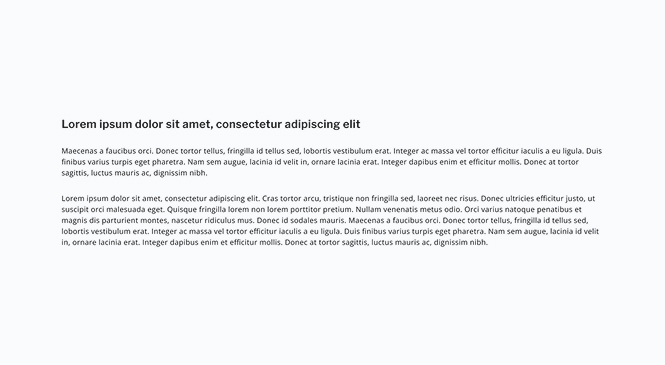
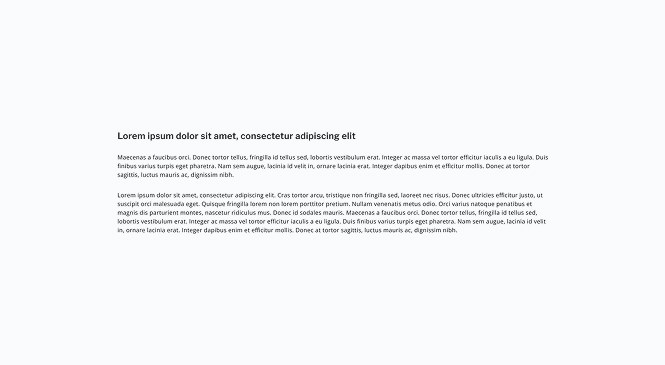
Add article rich text and picture block

Changed region(s): [[0.0902, 0.3315, 0.9023, 0.6932]]

diff --git a/src/payload-types.ts b/src/payload-types.ts
@@ -904,27 +904,52 @@ export interface Process {
     [k: string]: unknown;
   };
   blocks?:
-    | {
-        background?: boolean | null;
-        richText?: {
-          root: {
-            type: string;
-            children: {
-              type: string;
-              version: number;
+    | (
+        | {
+            background?: boolean | null;
+            richText?: {
+              root: {
+                type: string;
+                children: {
+                  type: string;
+                  version: number;
+                  [k: string]: unknown;
+                }[];
+                direction: ('ltr' | 'rtl') | null;
+                format: 'left' | 'start' | 'center' | 'right' | 'end' | 'justify' | '';
+                indent: number;
+                version: number;
+              };
               [k: string]: unknown;
-            }[];
-            direction: ('ltr' | 'rtl') | null;
-            format: 'left' | 'start' | 'center' | 'right' | 'end' | 'justify' | '';
-            indent: number;
-            version: number;
-          };
-          [k: string]: unknown;
-        } | null;
-        id?: string | null;
-        blockName?: string | null;
-        blockType: 'content';
-      }[]
+            } | null;
+            id?: string | null;
+            blockName?: string | null;
+            blockType: 'content';
+          }
+        | {
+            background?: boolean | null;
+            content: {
+              root: {
+                type: string;
+                children: {
+                  type: string;
+                  version: number;
+                  [k: string]: unknown;
+                }[];
+                direction: ('ltr' | 'rtl') | null;
+                format: 'left' | 'start' | 'center' | 'right' | 'end' | 'justify' | '';
+                indent: number;
+                version: number;
+              };
+              [k: string]: unknown;
+            };
+            'image-position': 'left' | 'right';
+            image?: (number | null) | Media;
+            id?: string | null;
+            blockName?: string | null;
+            blockType: 'article_rich_text_picture';
+          }
+      )[]
     | null;
   _status?: ('draft' | 'published') | null;
   updatedAt?: string | null;
@@ -1181,6 +1206,16 @@ export interface ProcessSelect<T extends boolean = true> {
           | {
               background?: T;
               richText?: T;
+              id?: T;
+              blockName?: T;
+            };
+        article_rich_text_picture?:
+          | T
+          | {
+              background?: T;
+              content?: T;
+              'image-position'?: T;
+              image?: T;
               id?: T;
               blockName?: T;
             };

diff --git a/src/ui/organisms/article-rich-text-picture/ArticleRichTextPicture.tsx b/src/ui/organisms/article-rich-text-picture/ArticleRichTextPicture.tsx
@@ -1,0 +1,53 @@
+'use client'
+
+import './article-rich-text-picture.scss'
+
+import { useRef } from 'react'
+import clsx from 'clsx'
+import Image from 'next/image'
+import { RichText as ConvertRichText } from '@payloadcms/richtext-lexical/react'
+import { AllBlocks, ExtractBlock } from '@/types/blocks'
+import { useArticleRichTextPictureAnimation } from './useArticleRichTextPictureAnimation'
+
+type Props = {
+  data: ExtractBlock<AllBlocks, 'article_rich_text_picture'>
+}
+
+export const ArticleRichTextPicture: React.FC<Props> = ({ data }) => {
+  const sectionRef = useRef<HTMLElement>(null)
+  const contentRef = useRef<HTMLDivElement>(null)
+
+  useArticleRichTextPictureAnimation(sectionRef, contentRef)
+
+  return (
+    <section
+      ref={sectionRef}
+      className={clsx('article_rich_text_picture_block', {
+        'article_rich_text_picture_block--background': data.background,
+      })}
+    >
+      <div className={'article_rich_text_picture_block__wrapper'}>
+        <div ref={contentRef} className="article_rich_text_picture_block__wrapper__content">
+          <ConvertRichText data={data.content} />
+        </div>
+        {data.image &&
+          typeof data.image !== 'number' &&
+          data.image.sizes?.content?.url &&
+          data.image.sizes?.content?.width &&
+          data.image.sizes?.content?.height && (
+            <Image
+              className={clsx('article_rich_text_picture_block__wrapper__picture', {
+                'article_rich_text_picture_block__wrapper__picture--image-left':
+                  data['image-position'] === 'left',
+              })}
+              src={data.image.sizes.content.url}
+              alt={data.image.alt}
+              width={data.image.sizes.content.width}
+              height={data.image.sizes.content.height}
+              quality={100}
+            />
+          )}
+      </div>
+    </section>
+  )
+}

diff --git a/src/ui/organisms/article-rich-text-picture/article-rich-text-picture.scss b/src/ui/organisms/article-rich-text-picture/article-rich-text-picture.scss
@@ -1,0 +1,64 @@
+.article_rich_text_picture_block {
+  &--background {
+    background-color: var(--body_secondary);
+  }
+
+  &__wrapper {
+    display: flex;
+    flex-direction: column;
+    gap: var(--space-5);
+    padding: var(--space-12) var(--space-3);
+    width: 100%;
+    max-width: var(--view-max-width);
+    margin: 0 auto;
+    box-sizing: border-box;
+
+    &__content {
+      flex: 1;
+      display: flex;
+      flex-direction: column;
+      justify-content: center;
+      gap: var(--space-3);
+      min-width: 0;
+    }
+
+    &__picture {
+      flex-shrink: 0;
+      width: 100%;
+      max-width: 400px;
+      height: auto;
+      margin: 0 auto;
+      object-fit: cover;
+
+      &--image-left {
+        order: -1;
+      }
+    }
+  }
+}
+
+@media screen and (min-width: 768px) {
+  .article_rich_text_picture_block {
+    &__wrapper {
+      padding: var(--space-12) var(--space-6);
+    }
+  }
+}
+
+@media screen and (min-width: 992px) {
+  .article_rich_text_picture_block {
+    &__wrapper {
+      flex-direction: row;
+      align-items: center;
+
+      &__content {
+        flex: 1;
+      }
+
+      &__picture {
+        width: 40%;
+        max-width: 400px;
+      }
+    }
+  }
+}

diff --git a/src/types/blocks.ts b/src/types/blocks.ts
@@ -1,5 +1,6 @@
 import type { Homepage, Discover, About, Process } from '@/payload-types'
 
+import { ArticleRichTextPictureBlock } from '@/blocks/article-rich-text-picture/ArticleRichTextPictureBlock'
 import { BookBlock } from '@/blocks/book/BookBlock'
 import { RichTextBlock } from '@/blocks/rich-text/RichTextBlock'
 import { FaqBlock } from '@/blocks/faq/FaqBlock'
@@ -16,11 +17,12 @@ export type HomepageBlocks = NonNullable<Homepage['blocks']>[number]
 export type DiscoverBlocks = NonNullable<Discover['blocks']>[number]
 export type AboutBlocks = NonNullable<About['blocks']>[number]
 export type ProcessBlocks = NonNullable<Process['blocks']>[number]
-export type AllBlocks = HomepageBlocks | DiscoverBlocks | AboutBlocks
+export type AllBlocks = HomepageBlocks | DiscoverBlocks | AboutBlocks | ProcessBlocks
 
 export const blockComponents: {
   [K in AllBlocks['blockType']]: React.ComponentType<Extract<AllBlocks, { blockType: K }>>
 } = {
+  article_rich_text_picture: ArticleRichTextPictureBlock,
   book: BookBlock,
   content: RichTextBlock,
   faq: FaqBlock,

diff --git a/src/blocks/article-rich-text-picture/config.ts b/src/blocks/article-rich-text-picture/config.ts
@@ -1,0 +1,39 @@
+import { Block } from 'payload'
+
+export const ArticleRichTextPicture: Block = {
+  slug: 'article_rich_text_picture',
+  labels: {
+    singular: 'Contenu libre avec image',
+    plural: 'Contenus libres avec image',
+  },
+  imageURL: 'http://localhost:3000/block_illustrations/block_article_content_picture.jpg',
+  fields: [
+    {
+      name: 'background',
+      label: 'Fond gris',
+      type: 'checkbox',
+    },
+    {
+      name: 'content',
+      label: 'Contenu',
+      type: 'richText',
+      required: true,
+    },
+    {
+      name: 'image-position',
+      label: "Position de l'image",
+      type: 'select',
+      options: [
+        { value: 'left', label: 'À gauche du contenu' },
+        { value: 'right', label: 'À droite du contenu' },
+      ],
+      required: true,
+    },
+    {
+      name: 'image',
+      label: 'Image',
+      type: 'upload',
+      relationTo: 'media',
+    },
+  ],
+}

diff --git a/src/ui/organisms/article-rich-text-picture/useArticleRichTextPictureAnimation.ts b/src/ui/organisms/article-rich-text-picture/useArticleRichTextPictureAnimation.ts
@@ -1,0 +1,29 @@
+import { useEffect } from 'react'
+import gsap from 'gsap'
+import ScrollTrigger from 'gsap/ScrollTrigger'
+
+gsap.registerPlugin(ScrollTrigger)
+
+export const useArticleRichTextPictureAnimation = (
+  sectionRef: React.RefObject<HTMLElement | null>,
+  contentRef: React.RefObject<HTMLDivElement | null>,
+) => {
+  useEffect(() => {
+    if (!sectionRef.current || !contentRef.current) return
+
+    const ctx = gsap.context(() => {
+      gsap.from(contentRef.current, {
+        scrollTrigger: {
+          trigger: contentRef.current,
+          start: 'top 80%',
+        },
+        opacity: 0,
+        y: 30,
+        duration: 0.5,
+        ease: 'power2.out',
+      })
+    }, sectionRef)
+
+    return () => ctx.revert()
+  }, [sectionRef, contentRef])
+}

diff --git a/src/globals/process/config.ts b/src/globals/process/config.ts
@@ -1,5 +1,6 @@
 import { GlobalConfig } from 'payload'
 import { RichText } from '@/blocks/rich-text/config'
+import { ArticleRichTextPicture } from '@/blocks/article-rich-text-picture/config'
 
 export const ProcessPage: GlobalConfig = {
   slug: 'process',
@@ -24,7 +25,7 @@ export const ProcessPage: GlobalConfig = {
       name: 'blocks',
       label: 'Blocs de la page',
       type: 'blocks',
-      blocks: [RichText],
+      blocks: [RichText, ArticleRichTextPicture],
     },
   ],
 }

diff --git a/src/blocks/article-rich-text-picture/ArticleRichTextPictureBlock.tsx b/src/blocks/article-rich-text-picture/ArticleRichTextPictureBlock.tsx
@@ -1,0 +1,8 @@
+import { ArticleRichTextPicture } from '@/ui/organisms/article-rich-text-picture/ArticleRichTextPicture'
+import type { AllBlocks, ExtractBlock } from '@/types/blocks'
+
+type Props = ExtractBlock<AllBlocks, 'article_rich_text_picture'>
+
+export const ArticleRichTextPictureBlock = (data: Props) => {
+  return <ArticleRichTextPicture data={data} />
+}
